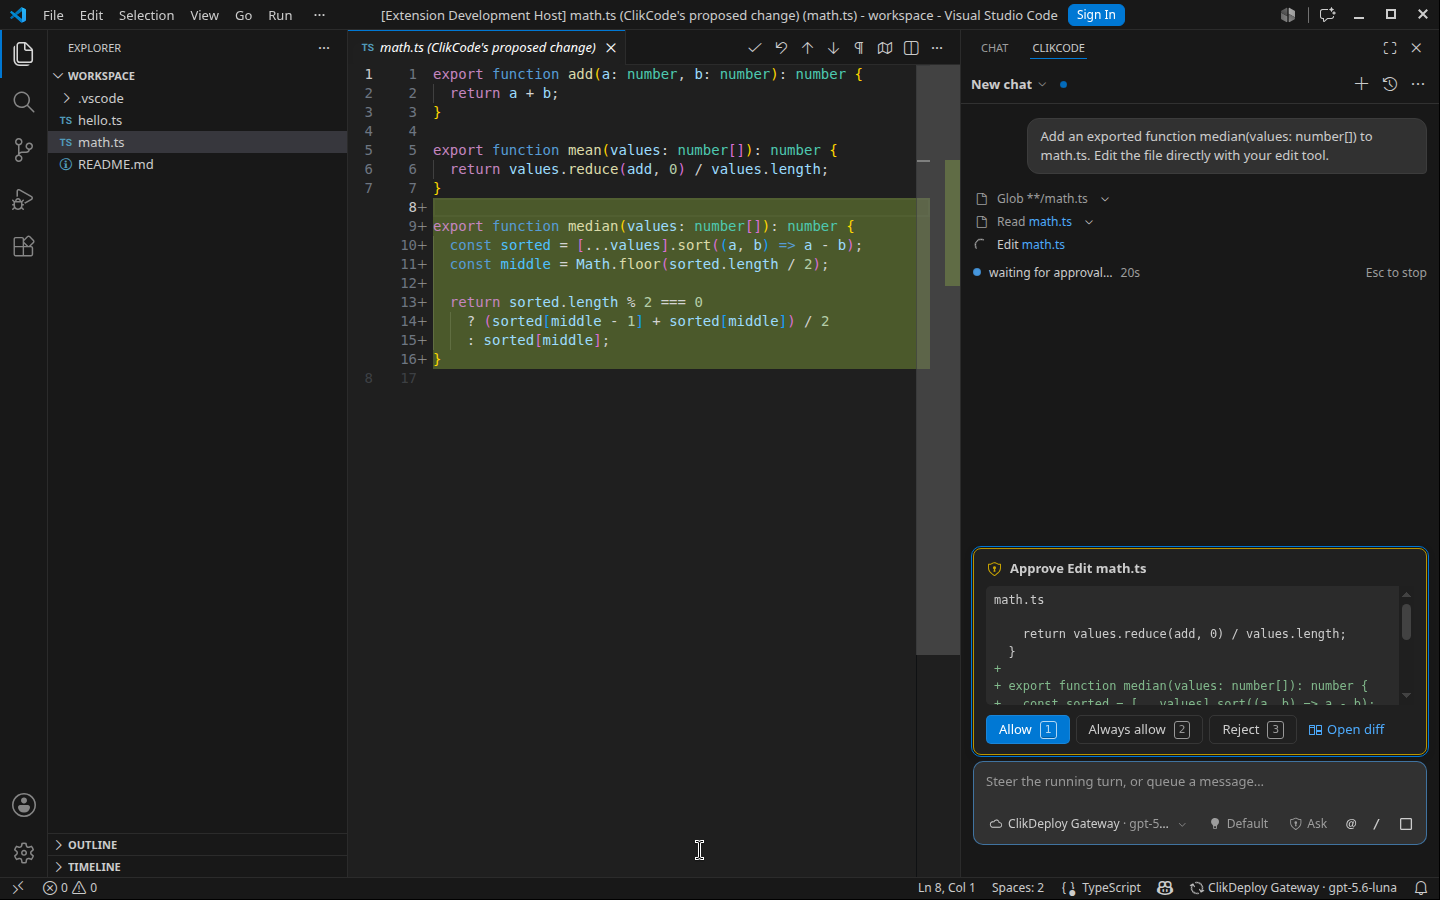
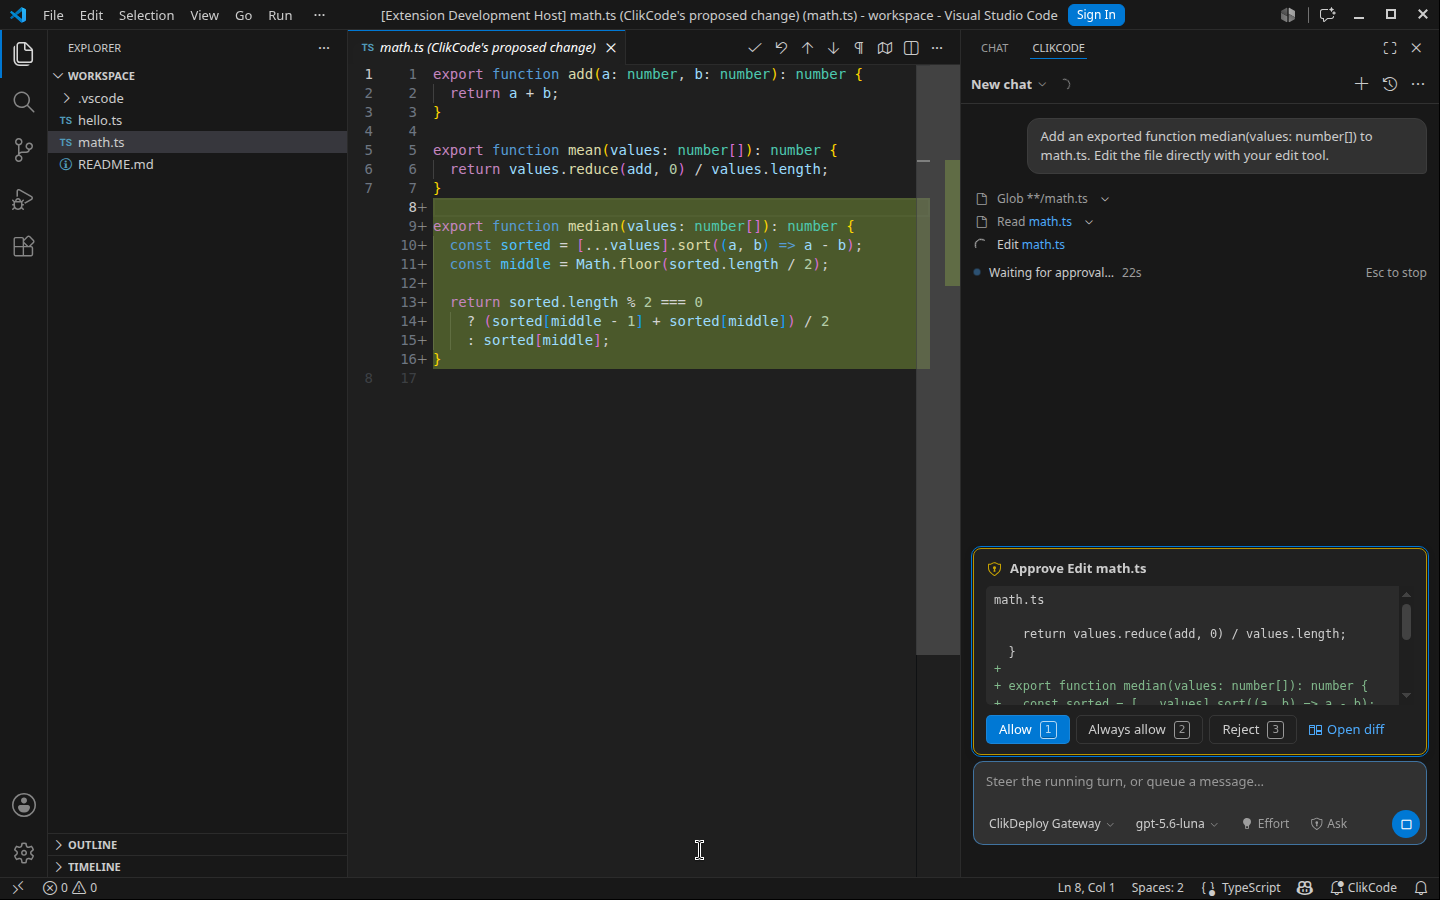
Status badges in the VS Code panel stay readable in light themes; README and walkthrough screenshots show the cleaned-up panel, and the 0.2 changelog lists the changes

diff --git a/packages/vscode/src/webview/styles.css b/packages/vscode/src/webview/styles.css
@@ -116,8 +116,11 @@ button.primary kbd, button.secondary kbd { border-color: currentColor; opacity: 
   background: var(--vscode-badge-background); color: var(--vscode-badge-foreground); white-space: nowrap;
 }
 .badge.muted-badge { background: transparent; border: 1px solid var(--border); color: var(--muted); }
-.badge.ok { background: transparent; border: 1px solid var(--ok); color: var(--ok); }
-.badge.warn { background: transparent; border: 1px solid var(--warn); color: var(--warn); }
+/* Status badges: the theme's text on a tint of the status colour, readable
+   in light themes where green or amber text on white is not. */
+.badge.ok { background: color-mix(in srgb, var(--ok) 16%, transparent); border: 1px solid color-mix(in srgb, var(--ok) 60%, transparent); color: var(--vscode-foreground); }
+.badge.warn { background: color-mix(in srgb, var(--warn) 16%, transparent); border: 1px solid color-mix(in srgb, var(--warn) 60%, transparent); color: var(--vscode-foreground); }
+body.vscode-high-contrast .badge.ok, body.vscode-high-contrast .badge.warn { background: transparent; }
 .count { margin-left: 6px; color: var(--muted); font-weight: 400; }
 
 /* ---- transcript ---- */

diff --git a/packages/vscode/CHANGELOG.md b/packages/vscode/CHANGELOG.md
@@ -36,6 +36,18 @@ ClikCode in VS Code, rebuilt as a finished product: everything ClikCode is, in t
 - Notifications when a turn finishes or asks for approval while the chat is out of sight.
 - Themed entirely from VS Code's colours (dark, light, high contrast), keyboard navigable with
   ARIA roles, and still with reduced motion.
+- **Tidy and consistent**: Conversations and Accounts take over the panel's header (back arrow,
+  title, their own actions) instead of stacking a second header under it, and Esc goes back from
+  both; the composer's provider and model read as plain names, effort always names its level; model
+  ids read without a repeated provider prefix (`big-pickle`, not `opencode:big-pickle`); the More
+  menu is grouped (Chat, Open, Help); menus show their keys (↑↓, Enter, Esc); status badges stay
+  readable in light themes.
+- The status bar item is just *ClikCode*, with a spinner while a turn runs and a bell when one
+  waits for approval; provider, model, account and usage are in its tooltip.
+- Commands: *ClikCode: Stop Current Turn* appears only while a turn runs, *Resume Chat…* (the same
+  as *Show Conversations*) is gone from the palette, *Open Extension Settings* and *Get Started* are
+  new, and the editor menu says *Ask ClikCode About Selection*.
+- The *Get started* walkthrough ships its images.
 - Needs ClikCode with IDE protocol revision 2 for the menus and screens above; with an older
   ClikCode the chat still works, with ClikCode's own pickers in the panel.
 
